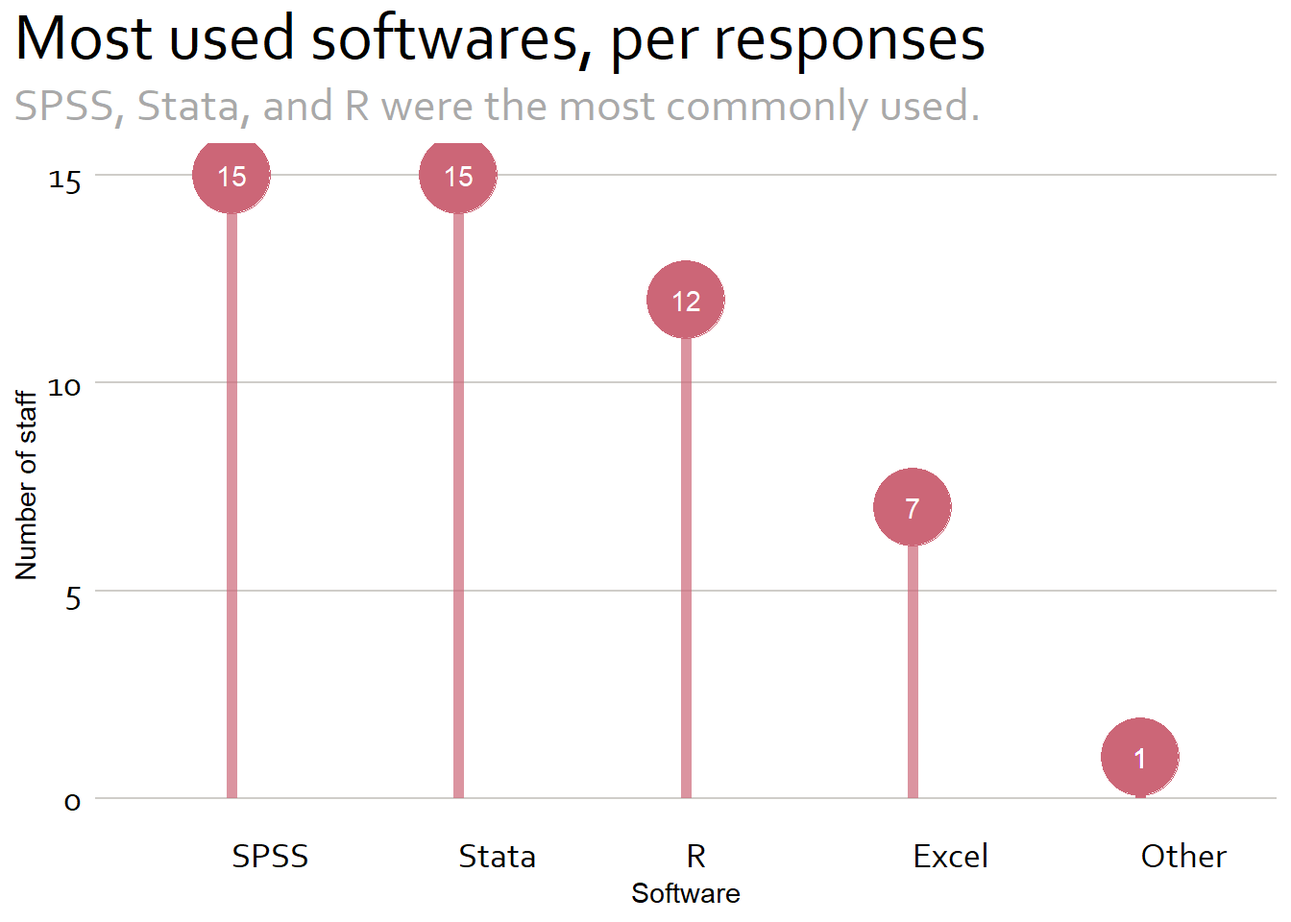
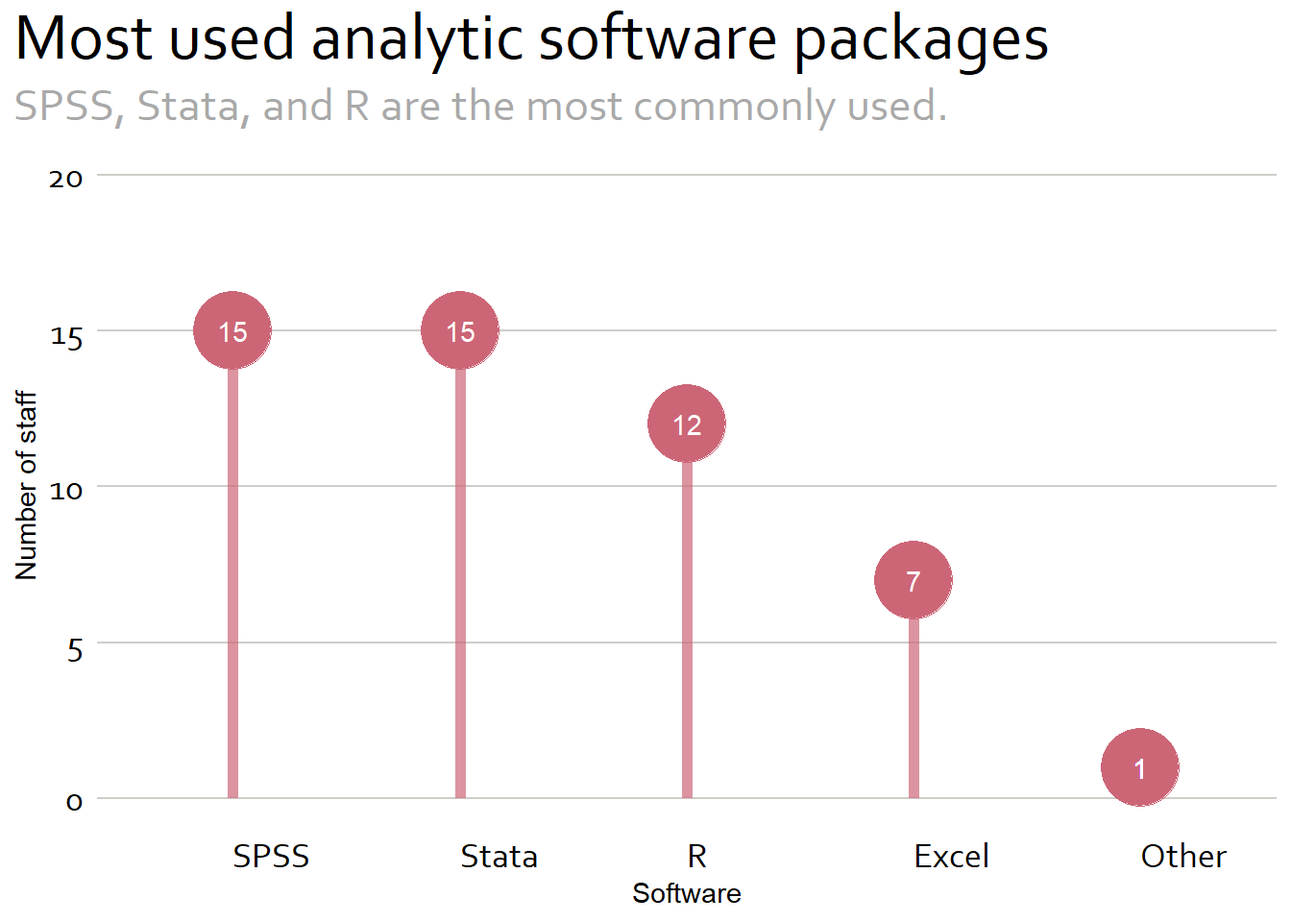
BC

diff --git a/network_analysis_sandbox/scripts/internal_networks.html b/network_analysis_sandbox/scripts/internal_networks.html
@@ -163,38 +163,40 @@ code span.wa { color: #60a0b0; font-weight: bold; font-style: italic; } /* Warni
 <div class="cell">
 
 </div>
-<p>We received 44 responses to the survey with 20 responses from home office staff and 24 responses from field office staff.</p>
+<p>We received 44 responses to the survey with 20 responses from home office staff and 24 responses from field office staff representing projects in Iraq, Nigeria, Jordan, and Zambia.</p>
 <div class="cell">
 <details>
 <summary>Code</summary>
-<div class="sourceCode cell-code" id="cb1"><pre class="sourceCode r code-with-copy"><code class="sourceCode r"><span id="cb1-1"><a href="#cb1-1" aria-hidden="true" tabindex="-1"></a><span class="co">#find the individual softwares</span></span>
-<span id="cb1-2"><a href="#cb1-2" aria-hidden="true" tabindex="-1"></a>softwares <span class="ot">&lt;-</span> <span class="fu">paste</span>(<span class="fu">c</span>(<span class="st">"R"</span>, <span class="st">"Stata"</span>, <span class="st">"SPSS"</span>, <span class="st">"Spss"</span>, <span class="st">"Nvivo"</span>, <span class="st">"Qualtrics"</span>, <span class="st">"MaxQDA"</span></span>
-<span id="cb1-3"><a href="#cb1-3" aria-hidden="true" tabindex="-1"></a>                     , <span class="st">"Python"</span>, <span class="st">"ArcGIS"</span>, <span class="st">"Excel"</span>, <span class="st">"excel"</span>, <span class="st">"SAS"</span></span>
-<span id="cb1-4"><a href="#cb1-4" aria-hidden="true" tabindex="-1"></a>                     , <span class="st">"EpiInfo"</span>, <span class="st">"STATA"</span>, <span class="st">"Kobo Tool Box"</span>, <span class="st">"Dedoose"</span></span>
-<span id="cb1-5"><a href="#cb1-5" aria-hidden="true" tabindex="-1"></a>                     , <span class="st">"SMath Studio"</span>, <span class="st">"Tableau"</span>), <span class="at">collapse =</span> <span class="st">"|"</span>)</span>
-<span id="cb1-6"><a href="#cb1-6" aria-hidden="true" tabindex="-1"></a></span>
-<span id="cb1-7"><a href="#cb1-7" aria-hidden="true" tabindex="-1"></a></span>
-<span id="cb1-8"><a href="#cb1-8" aria-hidden="true" tabindex="-1"></a><span class="co">#create a new column that extracts the names of software used </span></span>
-<span id="cb1-9"><a href="#cb1-9" aria-hidden="true" tabindex="-1"></a><span class="co">#then create another column that unnests any lists</span></span>
-<span id="cb1-10"><a href="#cb1-10" aria-hidden="true" tabindex="-1"></a>df1 <span class="ot">&lt;-</span> df <span class="sc">|&gt;</span></span>
-<span id="cb1-11"><a href="#cb1-11" aria-hidden="true" tabindex="-1"></a>  <span class="fu">mutate</span>(<span class="at">new =</span> <span class="fu">str_extract_all</span>(software, <span class="at">pattern =</span> softwares)) <span class="sc">|&gt;</span></span>
-<span id="cb1-12"><a href="#cb1-12" aria-hidden="true" tabindex="-1"></a>          <span class="fu">unnest</span>(new) </span>
-<span id="cb1-13"><a href="#cb1-13" aria-hidden="true" tabindex="-1"></a></span>
-<span id="cb1-14"><a href="#cb1-14" aria-hidden="true" tabindex="-1"></a><span class="co">#clean up a few software names</span></span>
-<span id="cb1-15"><a href="#cb1-15" aria-hidden="true" tabindex="-1"></a>df1<span class="sc">$</span>new <span class="ot">&lt;-</span> df1<span class="sc">$</span>new <span class="sc">|&gt;</span></span>
-<span id="cb1-16"><a href="#cb1-16" aria-hidden="true" tabindex="-1"></a>  <span class="fu">recode</span>(<span class="st">"STATA"</span> <span class="ot">=</span> <span class="st">"Stata"</span></span>
-<span id="cb1-17"><a href="#cb1-17" aria-hidden="true" tabindex="-1"></a>         , <span class="st">"Spss"</span> <span class="ot">=</span> <span class="st">"SPSS"</span></span>
-<span id="cb1-18"><a href="#cb1-18" aria-hidden="true" tabindex="-1"></a>         , <span class="st">"EXCEL"</span> <span class="ot">=</span> <span class="st">"Excel"</span>) </span>
-<span id="cb1-19"><a href="#cb1-19" aria-hidden="true" tabindex="-1"></a></span>
-<span id="cb1-20"><a href="#cb1-20" aria-hidden="true" tabindex="-1"></a><span class="co">#then create a count of which software packages are used at MSI</span></span>
-<span id="cb1-21"><a href="#cb1-21" aria-hidden="true" tabindex="-1"></a>df2 <span class="ot">&lt;-</span> df1 <span class="sc">|&gt;</span></span>
-<span id="cb1-22"><a href="#cb1-22" aria-hidden="true" tabindex="-1"></a>  <span class="fu">filter</span>(<span class="sc">!</span><span class="fu">is.na</span>(new)) <span class="sc">|&gt;</span></span>
-<span id="cb1-23"><a href="#cb1-23" aria-hidden="true" tabindex="-1"></a>  <span class="fu">group_by</span>(new) <span class="sc">|&gt;</span></span>
-<span id="cb1-24"><a href="#cb1-24" aria-hidden="true" tabindex="-1"></a>  <span class="fu">count</span>() <span class="sc">|&gt;</span></span>
-<span id="cb1-25"><a href="#cb1-25" aria-hidden="true" tabindex="-1"></a>  <span class="fu">mutate</span>(<span class="at">new2 =</span> <span class="fu">case_when</span>(n <span class="sc">==</span> <span class="dv">1</span> <span class="sc">~</span> <span class="st">"Other"</span></span>
-<span id="cb1-26"><a href="#cb1-26" aria-hidden="true" tabindex="-1"></a>                          , <span class="cn">TRUE</span> <span class="sc">~</span> new)) <span class="sc">|&gt;</span></span>
-<span id="cb1-27"><a href="#cb1-27" aria-hidden="true" tabindex="-1"></a>  <span class="fu">select</span>(<span class="st">"Software"</span> <span class="ot">=</span> new2, <span class="st">"Count"</span> <span class="ot">=</span> n, <span class="sc">-</span>new) <span class="sc">|&gt;</span></span>
-<span id="cb1-28"><a href="#cb1-28" aria-hidden="true" tabindex="-1"></a>  <span class="fu">arrange</span>(<span class="fu">desc</span>(Count))</span></code><button title="Copy to Clipboard" class="code-copy-button"><i class="bi"></i></button></pre></div>
+<div class="sourceCode cell-code" id="cb1"><pre class="sourceCode r code-with-copy"><code class="sourceCode r"><span id="cb1-1"><a href="#cb1-1" aria-hidden="true" tabindex="-1"></a><span class="co">#identifying the analytic softwares used at MSI</span></span>
+<span id="cb1-2"><a href="#cb1-2" aria-hidden="true" tabindex="-1"></a></span>
+<span id="cb1-3"><a href="#cb1-3" aria-hidden="true" tabindex="-1"></a><span class="co">#find the individual softwares</span></span>
+<span id="cb1-4"><a href="#cb1-4" aria-hidden="true" tabindex="-1"></a>softwares <span class="ot">&lt;-</span> <span class="fu">paste</span>(<span class="fu">c</span>(<span class="st">"R"</span>, <span class="st">"Stata"</span>, <span class="st">"SPSS"</span>, <span class="st">"Spss"</span>, <span class="st">"Nvivo"</span>, <span class="st">"Qualtrics"</span>, <span class="st">"MaxQDA"</span></span>
+<span id="cb1-5"><a href="#cb1-5" aria-hidden="true" tabindex="-1"></a>                     , <span class="st">"Python"</span>, <span class="st">"ArcGIS"</span>, <span class="st">"Excel"</span>, <span class="st">"excel"</span>, <span class="st">"SAS"</span></span>
+<span id="cb1-6"><a href="#cb1-6" aria-hidden="true" tabindex="-1"></a>                     , <span class="st">"EpiInfo"</span>, <span class="st">"STATA"</span>, <span class="st">"Kobo Tool Box"</span>, <span class="st">"Dedoose"</span></span>
+<span id="cb1-7"><a href="#cb1-7" aria-hidden="true" tabindex="-1"></a>                     , <span class="st">"SMath Studio"</span>, <span class="st">"Tableau"</span>), <span class="at">collapse =</span> <span class="st">"|"</span>)</span>
+<span id="cb1-8"><a href="#cb1-8" aria-hidden="true" tabindex="-1"></a></span>
+<span id="cb1-9"><a href="#cb1-9" aria-hidden="true" tabindex="-1"></a></span>
+<span id="cb1-10"><a href="#cb1-10" aria-hidden="true" tabindex="-1"></a><span class="co">#create a new column that extracts the names of software used </span></span>
+<span id="cb1-11"><a href="#cb1-11" aria-hidden="true" tabindex="-1"></a><span class="co">#then create another column that unnests any lists</span></span>
+<span id="cb1-12"><a href="#cb1-12" aria-hidden="true" tabindex="-1"></a>df1 <span class="ot">&lt;-</span> df <span class="sc">|&gt;</span></span>
+<span id="cb1-13"><a href="#cb1-13" aria-hidden="true" tabindex="-1"></a>  <span class="fu">mutate</span>(<span class="at">new =</span> <span class="fu">str_extract_all</span>(software, <span class="at">pattern =</span> softwares)) <span class="sc">|&gt;</span></span>
+<span id="cb1-14"><a href="#cb1-14" aria-hidden="true" tabindex="-1"></a>          <span class="fu">unnest</span>(new) </span>
+<span id="cb1-15"><a href="#cb1-15" aria-hidden="true" tabindex="-1"></a></span>
+<span id="cb1-16"><a href="#cb1-16" aria-hidden="true" tabindex="-1"></a><span class="co">#clean up a few software names</span></span>
+<span id="cb1-17"><a href="#cb1-17" aria-hidden="true" tabindex="-1"></a>df1<span class="sc">$</span>new <span class="ot">&lt;-</span> df1<span class="sc">$</span>new <span class="sc">|&gt;</span></span>
+<span id="cb1-18"><a href="#cb1-18" aria-hidden="true" tabindex="-1"></a>  <span class="fu">recode</span>(<span class="st">"STATA"</span> <span class="ot">=</span> <span class="st">"Stata"</span></span>
+<span id="cb1-19"><a href="#cb1-19" aria-hidden="true" tabindex="-1"></a>         , <span class="st">"Spss"</span> <span class="ot">=</span> <span class="st">"SPSS"</span></span>
+<span id="cb1-20"><a href="#cb1-20" aria-hidden="true" tabindex="-1"></a>         , <span class="st">"EXCEL"</span> <span class="ot">=</span> <span class="st">"Excel"</span>) </span>
+<span id="cb1-21"><a href="#cb1-21" aria-hidden="true" tabindex="-1"></a></span>
+<span id="cb1-22"><a href="#cb1-22" aria-hidden="true" tabindex="-1"></a><span class="co">#then create a count of which software packages are used at MSI</span></span>
+<span id="cb1-23"><a href="#cb1-23" aria-hidden="true" tabindex="-1"></a>df2 <span class="ot">&lt;-</span> df1 <span class="sc">|&gt;</span></span>
+<span id="cb1-24"><a href="#cb1-24" aria-hidden="true" tabindex="-1"></a>  <span class="fu">filter</span>(<span class="sc">!</span><span class="fu">is.na</span>(new)) <span class="sc">|&gt;</span></span>
+<span id="cb1-25"><a href="#cb1-25" aria-hidden="true" tabindex="-1"></a>  <span class="fu">group_by</span>(new) <span class="sc">|&gt;</span></span>
+<span id="cb1-26"><a href="#cb1-26" aria-hidden="true" tabindex="-1"></a>  <span class="fu">count</span>() <span class="sc">|&gt;</span></span>
+<span id="cb1-27"><a href="#cb1-27" aria-hidden="true" tabindex="-1"></a>  <span class="fu">mutate</span>(<span class="at">new2 =</span> <span class="fu">case_when</span>(n <span class="sc">==</span> <span class="dv">1</span> <span class="sc">~</span> <span class="st">"Other"</span></span>
+<span id="cb1-28"><a href="#cb1-28" aria-hidden="true" tabindex="-1"></a>                          , <span class="cn">TRUE</span> <span class="sc">~</span> new)) <span class="sc">|&gt;</span></span>
+<span id="cb1-29"><a href="#cb1-29" aria-hidden="true" tabindex="-1"></a>  <span class="fu">select</span>(<span class="st">"Software"</span> <span class="ot">=</span> new2, <span class="st">"Count"</span> <span class="ot">=</span> n, <span class="sc">-</span>new) <span class="sc">|&gt;</span></span>
+<span id="cb1-30"><a href="#cb1-30" aria-hidden="true" tabindex="-1"></a>  <span class="fu">arrange</span>(<span class="fu">desc</span>(Count))</span></code><button title="Copy to Clipboard" class="code-copy-button"><i class="bi"></i></button></pre></div>
 </details>
 <div class="cell-output cell-output-stderr">
 <pre><code>Adding missing grouping variables: `new`</code></pre>
@@ -211,11 +213,12 @@ code span.wa { color: #60a0b0; font-weight: bold; font-style: italic; } /* Warni
 <span id="cb3-8"><a href="#cb3-8" aria-hidden="true" tabindex="-1"></a>               , <span class="at">alpha =</span> .<span class="dv">7</span>) <span class="sc">+</span></span>
 <span id="cb3-9"><a href="#cb3-9" aria-hidden="true" tabindex="-1"></a>  <span class="fu">geom_text</span>(<span class="fu">aes</span>(<span class="at">x =</span> Software, <span class="at">y =</span> Count, <span class="at">label =</span> Count)</span>
 <span id="cb3-10"><a href="#cb3-10" aria-hidden="true" tabindex="-1"></a>            , <span class="at">color =</span> <span class="st">"white"</span>) <span class="sc">+</span></span>
-<span id="cb3-11"><a href="#cb3-11" aria-hidden="true" tabindex="-1"></a>  <span class="fu">labs</span>(<span class="at">title =</span> <span class="st">"Most used softwares, per responses"</span></span>
-<span id="cb3-12"><a href="#cb3-12" aria-hidden="true" tabindex="-1"></a>       , <span class="at">subtitle =</span> <span class="st">"SPSS, Stata, and R were the most commonly used."</span></span>
+<span id="cb3-11"><a href="#cb3-11" aria-hidden="true" tabindex="-1"></a>  <span class="fu">labs</span>(<span class="at">title =</span> <span class="st">"Most used analytic software packages"</span></span>
+<span id="cb3-12"><a href="#cb3-12" aria-hidden="true" tabindex="-1"></a>       , <span class="at">subtitle =</span> <span class="st">"SPSS, Stata, and R are the most commonly used."</span></span>
 <span id="cb3-13"><a href="#cb3-13" aria-hidden="true" tabindex="-1"></a>       , <span class="at">y =</span> <span class="st">"Number of staff"</span></span>
 <span id="cb3-14"><a href="#cb3-14" aria-hidden="true" tabindex="-1"></a>       , <span class="at">x =</span> <span class="st">"Software"</span>) <span class="sc">+</span> </span>
-<span id="cb3-15"><a href="#cb3-15" aria-hidden="true" tabindex="-1"></a>  <span class="fu">theme.plot</span>()</span></code><button title="Copy to Clipboard" class="code-copy-button"><i class="bi"></i></button></pre></div>
+<span id="cb3-15"><a href="#cb3-15" aria-hidden="true" tabindex="-1"></a>  <span class="fu">scale_y_continuous</span>(<span class="at">limits =</span> <span class="fu">c</span>(<span class="dv">0</span>, <span class="dv">20</span>))<span class="sc">+</span></span>
+<span id="cb3-16"><a href="#cb3-16" aria-hidden="true" tabindex="-1"></a>  <span class="fu">theme.plot</span>()</span></code><button title="Copy to Clipboard" class="code-copy-button"><i class="bi"></i></button></pre></div>
 </details>
 <div class="cell-output-display">
 <p><img src="internal_networks_files/figure-html/unnamed-chunk-3-1.png" class="img-fluid" width="672"></p>
@@ -224,76 +227,166 @@ code span.wa { color: #60a0b0; font-weight: bold; font-style: italic; } /* Warni
 </section>
 <section id="network-statistics" class="level1">
 <h1>Network statistics</h1>
-<p>We are looking at networks so we have to identify the people and the connections. In network analysis these are called, nodes and edges, respectively.</p>
-<p>Let’s observe the first five rows of data for the mentor network and their connections.</p>
+<p>Next, let’s look at the networks. We collected data for two networks – one related to mentoring and another related to technical guidance. To understand the networks we have to identify the people and their connections. In network analysis these are called, nodes and edges, respectively. Let’s observe the first five rows of data for the mentor network and their connections.</p>
 <div>
 <details>
 <summary>Code</summary>
-<div class="sourceCode cell-code" id="cb4"><pre class="sourceCode r code-with-copy"><code class="sourceCode r"><span id="cb4-1"><a href="#cb4-1" aria-hidden="true" tabindex="-1"></a><span class="co">#read in the dataframes</span></span>
-<span id="cb4-2"><a href="#cb4-2" aria-hidden="true" tabindex="-1"></a></span>
-<span id="cb4-3"><a href="#cb4-3" aria-hidden="true" tabindex="-1"></a><span class="co">#mentoring</span></span>
-<span id="cb4-4"><a href="#cb4-4" aria-hidden="true" tabindex="-1"></a>mentor_nodes <span class="ot">&lt;-</span> readxl<span class="sc">::</span><span class="fu">read_xlsx</span>(here<span class="sc">::</span><span class="fu">here</span>(<span class="st">"network_analysis_sandbox/data/nodes_mentor.xlsx"</span>))</span>
-<span id="cb4-5"><a href="#cb4-5" aria-hidden="true" tabindex="-1"></a></span>
-<span id="cb4-6"><a href="#cb4-6" aria-hidden="true" tabindex="-1"></a>mentor_edges <span class="ot">&lt;-</span> readxl<span class="sc">::</span><span class="fu">read_xlsx</span>(here<span class="sc">::</span><span class="fu">here</span>(<span class="st">"network_analysis_sandbox/data/edges_mentor.xlsx"</span>))</span>
-<span id="cb4-7"><a href="#cb4-7" aria-hidden="true" tabindex="-1"></a></span>
-<span id="cb4-8"><a href="#cb4-8" aria-hidden="true" tabindex="-1"></a><span class="co">#tech questions</span></span>
-<span id="cb4-9"><a href="#cb4-9" aria-hidden="true" tabindex="-1"></a>tech_nodes <span class="ot">&lt;-</span> readxl<span class="sc">::</span><span class="fu">read_xlsx</span>(here<span class="sc">::</span><span class="fu">here</span>(<span class="st">"network_analysis_sandbox/data/nodes_tech.xlsx"</span>))</span>
+<div class="sourceCode cell-code" id="cb4"><pre class="sourceCode markdown code-with-copy"><code class="sourceCode markdown"><span id="cb4-1"><a href="#cb4-1" aria-hidden="true" tabindex="-1"></a><span class="in">```{r}</span></span>
+<span id="cb4-2"><a href="#cb4-2" aria-hidden="true" tabindex="-1"></a><span class="co">#| label: Edges and nodes</span></span>
+<span id="cb4-3"><a href="#cb4-3" aria-hidden="true" tabindex="-1"></a><span class="co">#| tbl-cap: "Network data"</span></span>
+<span id="cb4-4"><a href="#cb4-4" aria-hidden="true" tabindex="-1"></a><span class="co">#| tbl-subcap:</span></span>
+<span id="cb4-5"><a href="#cb4-5" aria-hidden="true" tabindex="-1"></a><span class="co">#|   - "Edges"</span></span>
+<span id="cb4-6"><a href="#cb4-6" aria-hidden="true" tabindex="-1"></a><span class="co">#|   - "Nodes"</span></span>
+<span id="cb4-7"><a href="#cb4-7" aria-hidden="true" tabindex="-1"></a><span class="co">#| layout-ncol: 2</span></span>
+<span id="cb4-8"><a href="#cb4-8" aria-hidden="true" tabindex="-1"></a><span class="co">#| tbl-colwidths: [20,20]</span></span>
+<span id="cb4-9"><a href="#cb4-9" aria-hidden="true" tabindex="-1"></a><span class="co">#read in the dataframes</span></span>
 <span id="cb4-10"><a href="#cb4-10" aria-hidden="true" tabindex="-1"></a></span>
-<span id="cb4-11"><a href="#cb4-11" aria-hidden="true" tabindex="-1"></a>tech_edges <span class="ot">&lt;-</span> readxl<span class="sc">::</span><span class="fu">read_xlsx</span>(here<span class="sc">::</span><span class="fu">here</span>(<span class="st">"network_analysis_sandbox/data/edges_tech.xlsx"</span>))</span></code><button title="Copy to Clipboard" class="code-copy-button"><i class="bi"></i></button></pre></div>
+<span id="cb4-11"><a href="#cb4-11" aria-hidden="true" tabindex="-1"></a><span class="co">#mentoring</span></span>
+<span id="cb4-12"><a href="#cb4-12" aria-hidden="true" tabindex="-1"></a>mentor_nodes <span class="ot">&lt;-</span> readxl<span class="sc">::</span><span class="fu">read_xlsx</span>(here<span class="sc">::</span><span class="fu">here</span>(<span class="st">"network_analysis_sandbox/data/nodes_mentor.xlsx"</span>))</span>
+<span id="cb4-13"><a href="#cb4-13" aria-hidden="true" tabindex="-1"></a></span>
+<span id="cb4-14"><a href="#cb4-14" aria-hidden="true" tabindex="-1"></a>mentor_edges <span class="ot">&lt;-</span> readxl<span class="sc">::</span><span class="fu">read_xlsx</span>(here<span class="sc">::</span><span class="fu">here</span>(<span class="st">"network_analysis_sandbox/data/edges_mentor.xlsx"</span>))</span>
+<span id="cb4-15"><a href="#cb4-15" aria-hidden="true" tabindex="-1"></a></span>
+<span id="cb4-16"><a href="#cb4-16" aria-hidden="true" tabindex="-1"></a><span class="co">#tech questions</span></span>
+<span id="cb4-17"><a href="#cb4-17" aria-hidden="true" tabindex="-1"></a>tech_nodes <span class="ot">&lt;-</span> readxl<span class="sc">::</span><span class="fu">read_xlsx</span>(here<span class="sc">::</span><span class="fu">here</span>(<span class="st">"network_analysis_sandbox/data/nodes_tech.xlsx"</span>))</span>
+<span id="cb4-18"><a href="#cb4-18" aria-hidden="true" tabindex="-1"></a></span>
+<span id="cb4-19"><a href="#cb4-19" aria-hidden="true" tabindex="-1"></a>tech_edges <span class="ot">&lt;-</span> readxl<span class="sc">::</span><span class="fu">read_xlsx</span>(here<span class="sc">::</span><span class="fu">here</span>(<span class="st">"network_analysis_sandbox/data/edges_tech.xlsx"</span>))</span>
+<span id="cb4-20"><a href="#cb4-20" aria-hidden="true" tabindex="-1"></a></span>
+<span id="cb4-21"><a href="#cb4-21" aria-hidden="true" tabindex="-1"></a><span class="fu">kable</span>(<span class="fu">head</span>(mentor_nodes, <span class="at">n =</span> <span class="dv">5</span>))</span>
+<span id="cb4-22"><a href="#cb4-22" aria-hidden="true" tabindex="-1"></a></span>
+<span id="cb4-23"><a href="#cb4-23" aria-hidden="true" tabindex="-1"></a><span class="fu">kable</span>(<span class="fu">head</span>(mentor_edges, <span class="at">n =</span> <span class="dv">5</span>))</span>
+<span id="cb4-24"><a href="#cb4-24" aria-hidden="true" tabindex="-1"></a><span class="in">```</span></span></code><button title="Copy to Clipboard" class="code-copy-button"><i class="bi"></i></button></pre></div>
 </details>
-<div class="cell quarto-layout-panel">
-
+<div id="tbl-anonymous-4598850" class="cell tbl-parent quarto-layout-panel anchored">
+<div class="panel-caption table-caption">
+<p>Network data</p>
+</div>
+<div class="quarto-layout-row quarto-layout-valign-top">
+<div id="tbl-anonymous-4598850-1" class="quarto-layout-cell quarto-layout-cell-subref anchored" data-ref-parent="tbl-anonymous-4598850" style="flex-basis: 50.0%;justify-content: center;">
+<table class="table table-sm table-striped">
+<caption>Edges</caption>
+<colgroup>
+<col style="width: 20%">
+</colgroup>
+<thead>
+<tr class="header">
+<th style="text-align: right;">id</th>
+</tr>
+</thead>
+<tbody>
+<tr class="odd">
+<td style="text-align: right;">1</td>
+</tr>
+<tr class="even">
+<td style="text-align: right;">2</td>
+</tr>
+<tr class="odd">
+<td style="text-align: right;">3</td>
+</tr>
+<tr class="even">
+<td style="text-align: right;">4</td>
+</tr>
+<tr class="odd">
+<td style="text-align: right;">5</td>
+</tr>
+</tbody>
+</table>
+</div>
+<div id="tbl-anonymous-4598850-2" class="quarto-layout-cell quarto-layout-cell-subref anchored" data-ref-parent="tbl-anonymous-4598850" style="flex-basis: 50.0%;justify-content: center;">
+<table class="table table-sm table-striped">
+<caption>Nodes</caption>
+<colgroup>
+<col style="width: 20%">
+<col style="width: 20%">
+</colgroup>
+<thead>
+<tr class="header">
+<th style="text-align: right;">from</th>
+<th style="text-align: right;">to</th>
+</tr>
+</thead>
+<tbody>
+<tr class="odd">
+<td style="text-align: right;">1</td>
+<td style="text-align: right;">11</td>
+</tr>
+<tr class="even">
+<td style="text-align: right;">2</td>
+<td style="text-align: right;">11</td>
+</tr>
+<tr class="odd">
+<td style="text-align: right;">2</td>
+<td style="text-align: right;">30</td>
+</tr>
+<tr class="even">
+<td style="text-align: right;">3</td>
+<td style="text-align: right;">31</td>
+</tr>
+<tr class="odd">
+<td style="text-align: right;">4</td>
+<td style="text-align: right;">32</td>
+</tr>
+</tbody>
+</table>
+</div>
+</div>
 </div>
 </div>
 <div class="cell">
 <details>
 <summary>Code</summary>
-<div class="sourceCode cell-code" id="cb5"><pre class="sourceCode r code-with-copy"><code class="sourceCode r"><span id="cb5-1"><a href="#cb5-1" aria-hidden="true" tabindex="-1"></a><span class="co">#convert the mentor_edges dataframe to a matrix</span></span>
-<span id="cb5-2"><a href="#cb5-2" aria-hidden="true" tabindex="-1"></a>mentors <span class="ot">&lt;-</span> <span class="fu">graph_from_data_frame</span>(mentor_edges)</span>
-<span id="cb5-3"><a href="#cb5-3" aria-hidden="true" tabindex="-1"></a></span>
-<span id="cb5-4"><a href="#cb5-4" aria-hidden="true" tabindex="-1"></a><span class="co">#add degree</span></span>
-<span id="cb5-5"><a href="#cb5-5" aria-hidden="true" tabindex="-1"></a>mentors<span class="sc">$</span>degree <span class="ot">&lt;-</span> <span class="fu">degree</span>(mentors)</span>
-<span id="cb5-6"><a href="#cb5-6" aria-hidden="true" tabindex="-1"></a></span>
-<span id="cb5-7"><a href="#cb5-7" aria-hidden="true" tabindex="-1"></a><span class="co">#add edge_betweenness</span></span>
-<span id="cb5-8"><a href="#cb5-8" aria-hidden="true" tabindex="-1"></a>mentors<span class="sc">$</span>edge_betweenness <span class="ot">&lt;-</span> <span class="fu">edge_betweenness</span>(mentors)</span>
-<span id="cb5-9"><a href="#cb5-9" aria-hidden="true" tabindex="-1"></a></span>
-<span id="cb5-10"><a href="#cb5-10" aria-hidden="true" tabindex="-1"></a><span class="co">#add neighborhood size (i.e. size of neighborhood within 2 edges of a node)</span></span>
-<span id="cb5-11"><a href="#cb5-11" aria-hidden="true" tabindex="-1"></a>mentors<span class="sc">$</span>degree2 <span class="ot">&lt;-</span> <span class="fu">neighborhood.size</span>(mentors, <span class="dv">2</span>)</span>
-<span id="cb5-12"><a href="#cb5-12" aria-hidden="true" tabindex="-1"></a></span>
-<span id="cb5-13"><a href="#cb5-13" aria-hidden="true" tabindex="-1"></a>ment_graph <span class="ot">&lt;-</span> <span class="fu">ggraph</span>(mentors, <span class="at">layout =</span> <span class="st">"with_kk"</span>) <span class="sc">+</span></span>
-<span id="cb5-14"><a href="#cb5-14" aria-hidden="true" tabindex="-1"></a>  <span class="fu">geom_node_point</span>(<span class="fu">aes</span>(<span class="at">size =</span> mentors<span class="sc">$</span>degree2)</span>
-<span id="cb5-15"><a href="#cb5-15" aria-hidden="true" tabindex="-1"></a>                  , <span class="at">color =</span> <span class="st">"blue"</span></span>
-<span id="cb5-16"><a href="#cb5-16" aria-hidden="true" tabindex="-1"></a>                    , <span class="at">alpha =</span> .<span class="dv">3</span>) <span class="sc">+</span></span>
-<span id="cb5-17"><a href="#cb5-17" aria-hidden="true" tabindex="-1"></a>  <span class="fu">geom_node_text</span>(<span class="fu">aes</span>(<span class="at">label =</span> name )) <span class="sc">+</span></span>
-<span id="cb5-18"><a href="#cb5-18" aria-hidden="true" tabindex="-1"></a>  <span class="fu">geom_edge_link</span>(<span class="fu">aes</span>(<span class="at">alpha =</span> mentors<span class="sc">$</span>edge_betweenness)) <span class="sc">+</span></span>
-<span id="cb5-19"><a href="#cb5-19" aria-hidden="true" tabindex="-1"></a>  <span class="fu">labs</span>(<span class="at">title =</span> <span class="st">"Mentor network among data enthusiasts at MSI"</span></span>
-<span id="cb5-20"><a href="#cb5-20" aria-hidden="true" tabindex="-1"></a>       , <span class="at">subtitle =</span> <span class="st">"subtitle"</span>) <span class="sc">+</span></span>
-<span id="cb5-21"><a href="#cb5-21" aria-hidden="true" tabindex="-1"></a>  <span class="fu">theme</span>(<span class="at">legend.position =</span> <span class="st">"none"</span>)</span>
-<span id="cb5-22"><a href="#cb5-22" aria-hidden="true" tabindex="-1"></a></span>
-<span id="cb5-23"><a href="#cb5-23" aria-hidden="true" tabindex="-1"></a><span class="co">#Repeat for tech side</span></span>
-<span id="cb5-24"><a href="#cb5-24" aria-hidden="true" tabindex="-1"></a>techs <span class="ot">&lt;-</span> <span class="fu">graph_from_data_frame</span>(tech_edges)</span>
-<span id="cb5-25"><a href="#cb5-25" aria-hidden="true" tabindex="-1"></a></span>
-<span id="cb5-26"><a href="#cb5-26" aria-hidden="true" tabindex="-1"></a><span class="co">#add degree</span></span>
-<span id="cb5-27"><a href="#cb5-27" aria-hidden="true" tabindex="-1"></a>techs<span class="sc">$</span>degree <span class="ot">&lt;-</span> <span class="fu">degree</span>(techs)</span>
-<span id="cb5-28"><a href="#cb5-28" aria-hidden="true" tabindex="-1"></a></span>
-<span id="cb5-29"><a href="#cb5-29" aria-hidden="true" tabindex="-1"></a><span class="co">#add edge_betweenness</span></span>
-<span id="cb5-30"><a href="#cb5-30" aria-hidden="true" tabindex="-1"></a>techs<span class="sc">$</span>edge_betweenness <span class="ot">&lt;-</span> <span class="fu">edge_betweenness</span>(techs)</span>
-<span id="cb5-31"><a href="#cb5-31" aria-hidden="true" tabindex="-1"></a></span>
-<span id="cb5-32"><a href="#cb5-32" aria-hidden="true" tabindex="-1"></a><span class="co">#add neighborhood size (i.e. size of neighborhood within 2 edges of a node)</span></span>
-<span id="cb5-33"><a href="#cb5-33" aria-hidden="true" tabindex="-1"></a>techs<span class="sc">$</span>degree2 <span class="ot">&lt;-</span> <span class="fu">neighborhood.size</span>(techs, <span class="dv">2</span>)</span>
-<span id="cb5-34"><a href="#cb5-34" aria-hidden="true" tabindex="-1"></a></span>
-<span id="cb5-35"><a href="#cb5-35" aria-hidden="true" tabindex="-1"></a>tech_graph <span class="ot">&lt;-</span> <span class="fu">ggraph</span>(techs, <span class="at">layout =</span> <span class="st">"with_kk"</span>) <span class="sc">+</span></span>
-<span id="cb5-36"><a href="#cb5-36" aria-hidden="true" tabindex="-1"></a>  <span class="fu">geom_node_point</span>(<span class="fu">aes</span>(<span class="at">size =</span> techs<span class="sc">$</span>degree2)</span>
-<span id="cb5-37"><a href="#cb5-37" aria-hidden="true" tabindex="-1"></a>                  , <span class="at">color =</span> <span class="st">"red"</span></span>
-<span id="cb5-38"><a href="#cb5-38" aria-hidden="true" tabindex="-1"></a>                    , <span class="at">alpha =</span> .<span class="dv">3</span>) <span class="sc">+</span></span>
-<span id="cb5-39"><a href="#cb5-39" aria-hidden="true" tabindex="-1"></a>  <span class="fu">geom_node_text</span>(<span class="fu">aes</span>(<span class="at">label =</span> name )) <span class="sc">+</span></span>
-<span id="cb5-40"><a href="#cb5-40" aria-hidden="true" tabindex="-1"></a>  <span class="fu">geom_edge_link</span>(<span class="fu">aes</span>(<span class="at">alpha =</span> techs<span class="sc">$</span>edge_betweenness)) <span class="sc">+</span></span>
-<span id="cb5-41"><a href="#cb5-41" aria-hidden="true" tabindex="-1"></a>  <span class="fu">labs</span>(<span class="at">title =</span> <span class="st">"Technical advice network among data enthusiasts at MSI"</span></span>
-<span id="cb5-42"><a href="#cb5-42" aria-hidden="true" tabindex="-1"></a>       , <span class="at">subtitle =</span> <span class="st">"Something about the nodes"</span>) <span class="sc">+</span></span>
-<span id="cb5-43"><a href="#cb5-43" aria-hidden="true" tabindex="-1"></a>  <span class="fu">theme</span>(<span class="at">legend.position =</span> <span class="st">"none"</span>)</span>
-<span id="cb5-44"><a href="#cb5-44" aria-hidden="true" tabindex="-1"></a></span>
-<span id="cb5-45"><a href="#cb5-45" aria-hidden="true" tabindex="-1"></a></span>
-<span id="cb5-46"><a href="#cb5-46" aria-hidden="true" tabindex="-1"></a>ment_graph <span class="sc">+</span> tech_graph</span></code><button title="Copy to Clipboard" class="code-copy-button"><i class="bi"></i></button></pre></div>
+<div class="sourceCode cell-code" id="cb5"><pre class="sourceCode r code-with-copy"><code class="sourceCode r"><span id="cb5-1"><a href="#cb5-1" aria-hidden="true" tabindex="-1"></a><span class="co">#| label: fig-charts</span></span>
+<span id="cb5-2"><a href="#cb5-2" aria-hidden="true" tabindex="-1"></a><span class="co">#| fig-cap: "Networks"</span></span>
+<span id="cb5-3"><a href="#cb5-3" aria-hidden="true" tabindex="-1"></a><span class="co">#| fig-subcap: </span></span>
+<span id="cb5-4"><a href="#cb5-4" aria-hidden="true" tabindex="-1"></a><span class="co">#|   - "Mentor network"</span></span>
+<span id="cb5-5"><a href="#cb5-5" aria-hidden="true" tabindex="-1"></a><span class="co">#|   - "Technical advice network"</span></span>
+<span id="cb5-6"><a href="#cb5-6" aria-hidden="true" tabindex="-1"></a><span class="co">#| layout-nrow: 2</span></span>
+<span id="cb5-7"><a href="#cb5-7" aria-hidden="true" tabindex="-1"></a></span>
+<span id="cb5-8"><a href="#cb5-8" aria-hidden="true" tabindex="-1"></a></span>
+<span id="cb5-9"><a href="#cb5-9" aria-hidden="true" tabindex="-1"></a><span class="co">#convert the mentor_edges dataframe to a matrix</span></span>
+<span id="cb5-10"><a href="#cb5-10" aria-hidden="true" tabindex="-1"></a>mentors <span class="ot">&lt;-</span> <span class="fu">graph_from_data_frame</span>(mentor_edges)</span>
+<span id="cb5-11"><a href="#cb5-11" aria-hidden="true" tabindex="-1"></a></span>
+<span id="cb5-12"><a href="#cb5-12" aria-hidden="true" tabindex="-1"></a><span class="co">#add degree</span></span>
+<span id="cb5-13"><a href="#cb5-13" aria-hidden="true" tabindex="-1"></a>mentors<span class="sc">$</span>degree <span class="ot">&lt;-</span> <span class="fu">degree</span>(mentors)</span>
+<span id="cb5-14"><a href="#cb5-14" aria-hidden="true" tabindex="-1"></a></span>
+<span id="cb5-15"><a href="#cb5-15" aria-hidden="true" tabindex="-1"></a><span class="co">#add edge_betweenness</span></span>
+<span id="cb5-16"><a href="#cb5-16" aria-hidden="true" tabindex="-1"></a>mentors<span class="sc">$</span>edge_betweenness <span class="ot">&lt;-</span> <span class="fu">edge_betweenness</span>(mentors)</span>
+<span id="cb5-17"><a href="#cb5-17" aria-hidden="true" tabindex="-1"></a></span>
+<span id="cb5-18"><a href="#cb5-18" aria-hidden="true" tabindex="-1"></a><span class="co">#add neighborhood size (i.e. size of neighborhood within 2 edges of a node)</span></span>
+<span id="cb5-19"><a href="#cb5-19" aria-hidden="true" tabindex="-1"></a>mentors<span class="sc">$</span>degree2 <span class="ot">&lt;-</span> <span class="fu">neighborhood.size</span>(mentors, <span class="dv">2</span>)</span>
+<span id="cb5-20"><a href="#cb5-20" aria-hidden="true" tabindex="-1"></a></span>
+<span id="cb5-21"><a href="#cb5-21" aria-hidden="true" tabindex="-1"></a>ment_graph <span class="ot">&lt;-</span> <span class="fu">ggraph</span>(mentors, <span class="at">layout =</span> <span class="st">"with_kk"</span>) <span class="sc">+</span></span>
+<span id="cb5-22"><a href="#cb5-22" aria-hidden="true" tabindex="-1"></a>  <span class="fu">geom_node_point</span>(<span class="fu">aes</span>(<span class="at">size =</span> mentors<span class="sc">$</span>degree2)</span>
+<span id="cb5-23"><a href="#cb5-23" aria-hidden="true" tabindex="-1"></a>                  , <span class="at">color =</span> <span class="st">"blue"</span></span>
+<span id="cb5-24"><a href="#cb5-24" aria-hidden="true" tabindex="-1"></a>                    , <span class="at">alpha =</span> .<span class="dv">3</span>) <span class="sc">+</span></span>
+<span id="cb5-25"><a href="#cb5-25" aria-hidden="true" tabindex="-1"></a>  <span class="fu">geom_node_text</span>(<span class="fu">aes</span>(<span class="at">label =</span> name )) <span class="sc">+</span></span>
+<span id="cb5-26"><a href="#cb5-26" aria-hidden="true" tabindex="-1"></a>  <span class="fu">geom_edge_link</span>(<span class="fu">aes</span>(<span class="at">alpha =</span> mentors<span class="sc">$</span>edge_betweenness)) <span class="sc">+</span></span>
+<span id="cb5-27"><a href="#cb5-27" aria-hidden="true" tabindex="-1"></a>  <span class="fu">labs</span>(<span class="at">title =</span> <span class="st">"Mentor network among data enthusiasts at MSI"</span></span>
+<span id="cb5-28"><a href="#cb5-28" aria-hidden="true" tabindex="-1"></a>       , <span class="at">subtitle =</span> <span class="st">"subtitle"</span>) <span class="sc">+</span></span>
+<span id="cb5-29"><a href="#cb5-29" aria-hidden="true" tabindex="-1"></a>  <span class="fu">theme</span>(<span class="at">legend.position =</span> <span class="st">"none"</span>)</span>
+<span id="cb5-30"><a href="#cb5-30" aria-hidden="true" tabindex="-1"></a></span>
+<span id="cb5-31"><a href="#cb5-31" aria-hidden="true" tabindex="-1"></a><span class="co">#Repeat for tech side</span></span>
+<span id="cb5-32"><a href="#cb5-32" aria-hidden="true" tabindex="-1"></a>techs <span class="ot">&lt;-</span> <span class="fu">graph_from_data_frame</span>(tech_edges)</span>
+<span id="cb5-33"><a href="#cb5-33" aria-hidden="true" tabindex="-1"></a></span>
+<span id="cb5-34"><a href="#cb5-34" aria-hidden="true" tabindex="-1"></a><span class="co">#add degree</span></span>
+<span id="cb5-35"><a href="#cb5-35" aria-hidden="true" tabindex="-1"></a>techs<span class="sc">$</span>degree <span class="ot">&lt;-</span> <span class="fu">degree</span>(techs)</span>
+<span id="cb5-36"><a href="#cb5-36" aria-hidden="true" tabindex="-1"></a></span>
+<span id="cb5-37"><a href="#cb5-37" aria-hidden="true" tabindex="-1"></a><span class="co">#add edge_betweenness</span></span>
+<span id="cb5-38"><a href="#cb5-38" aria-hidden="true" tabindex="-1"></a>techs<span class="sc">$</span>edge_betweenness <span class="ot">&lt;-</span> <span class="fu">edge_betweenness</span>(techs)</span>
+<span id="cb5-39"><a href="#cb5-39" aria-hidden="true" tabindex="-1"></a></span>
+<span id="cb5-40"><a href="#cb5-40" aria-hidden="true" tabindex="-1"></a><span class="co">#add neighborhood size (i.e. size of neighborhood within 2 edges of a node)</span></span>
+<span id="cb5-41"><a href="#cb5-41" aria-hidden="true" tabindex="-1"></a>techs<span class="sc">$</span>degree2 <span class="ot">&lt;-</span> <span class="fu">neighborhood.size</span>(techs, <span class="dv">2</span>)</span>
+<span id="cb5-42"><a href="#cb5-42" aria-hidden="true" tabindex="-1"></a></span>
+<span id="cb5-43"><a href="#cb5-43" aria-hidden="true" tabindex="-1"></a>tech_graph <span class="ot">&lt;-</span> <span class="fu">ggraph</span>(techs, <span class="at">layout =</span> <span class="st">"with_kk"</span>) <span class="sc">+</span></span>
+<span id="cb5-44"><a href="#cb5-44" aria-hidden="true" tabindex="-1"></a>  <span class="fu">geom_node_point</span>(<span class="fu">aes</span>(<span class="at">size =</span> techs<span class="sc">$</span>degree2)</span>
+<span id="cb5-45"><a href="#cb5-45" aria-hidden="true" tabindex="-1"></a>                  , <span class="at">color =</span> <span class="st">"red"</span></span>
+<span id="cb5-46"><a href="#cb5-46" aria-hidden="true" tabindex="-1"></a>                    , <span class="at">alpha =</span> .<span class="dv">3</span>) <span class="sc">+</span></span>
+<span id="cb5-47"><a href="#cb5-47" aria-hidden="true" tabindex="-1"></a>  <span class="fu">geom_node_text</span>(<span class="fu">aes</span>(<span class="at">label =</span> name )) <span class="sc">+</span></span>
+<span id="cb5-48"><a href="#cb5-48" aria-hidden="true" tabindex="-1"></a>  <span class="fu">geom_edge_link</span>(<span class="fu">aes</span>(<span class="at">alpha =</span> techs<span class="sc">$</span>edge_betweenness)) <span class="sc">+</span></span>
+<span id="cb5-49"><a href="#cb5-49" aria-hidden="true" tabindex="-1"></a>  <span class="fu">labs</span>(<span class="at">title =</span> <span class="st">"Technical advice network among data enthusiasts at MSI"</span></span>
+<span id="cb5-50"><a href="#cb5-50" aria-hidden="true" tabindex="-1"></a>       , <span class="at">subtitle =</span> <span class="st">"Something about the nodes"</span>) <span class="sc">+</span></span>
+<span id="cb5-51"><a href="#cb5-51" aria-hidden="true" tabindex="-1"></a>  <span class="fu">theme</span>(<span class="at">legend.position =</span> <span class="st">"none"</span>)</span>
+<span id="cb5-52"><a href="#cb5-52" aria-hidden="true" tabindex="-1"></a></span>
+<span id="cb5-53"><a href="#cb5-53" aria-hidden="true" tabindex="-1"></a>ment_graph</span></code><button title="Copy to Clipboard" class="code-copy-button"><i class="bi"></i></button></pre></div>
 </details>
 <div class="cell-output cell-output-stderr">
 <pre><code>Warning: Using the `size` aesthetic in this geom was deprecated in ggplot2 3.4.0.
@@ -301,6 +394,13 @@ code span.wa { color: #60a0b0; font-weight: bold; font-style: italic; } /* Warni
 </div>
 <div class="cell-output-display">
 <p><img src="internal_networks_files/figure-html/unnamed-chunk-5-1.png" class="img-fluid" width="672"></p>
+</div>
+<details>
+<summary>Code</summary>
+<div class="sourceCode cell-code" id="cb7"><pre class="sourceCode r code-with-copy"><code class="sourceCode r"><span id="cb7-1"><a href="#cb7-1" aria-hidden="true" tabindex="-1"></a>tech_graph</span></code><button title="Copy to Clipboard" class="code-copy-button"><i class="bi"></i></button></pre></div>
+</details>
+<div class="cell-output-display">
+<p><img src="internal_networks_files/figure-html/unnamed-chunk-5-2.png" class="img-fluid" width="672"></p>
 </div>
 </div>
 <p>In the entire mentor dataset there are 61 nodes. These nodes have 59 connections. The resulting network looks like this.</p>
